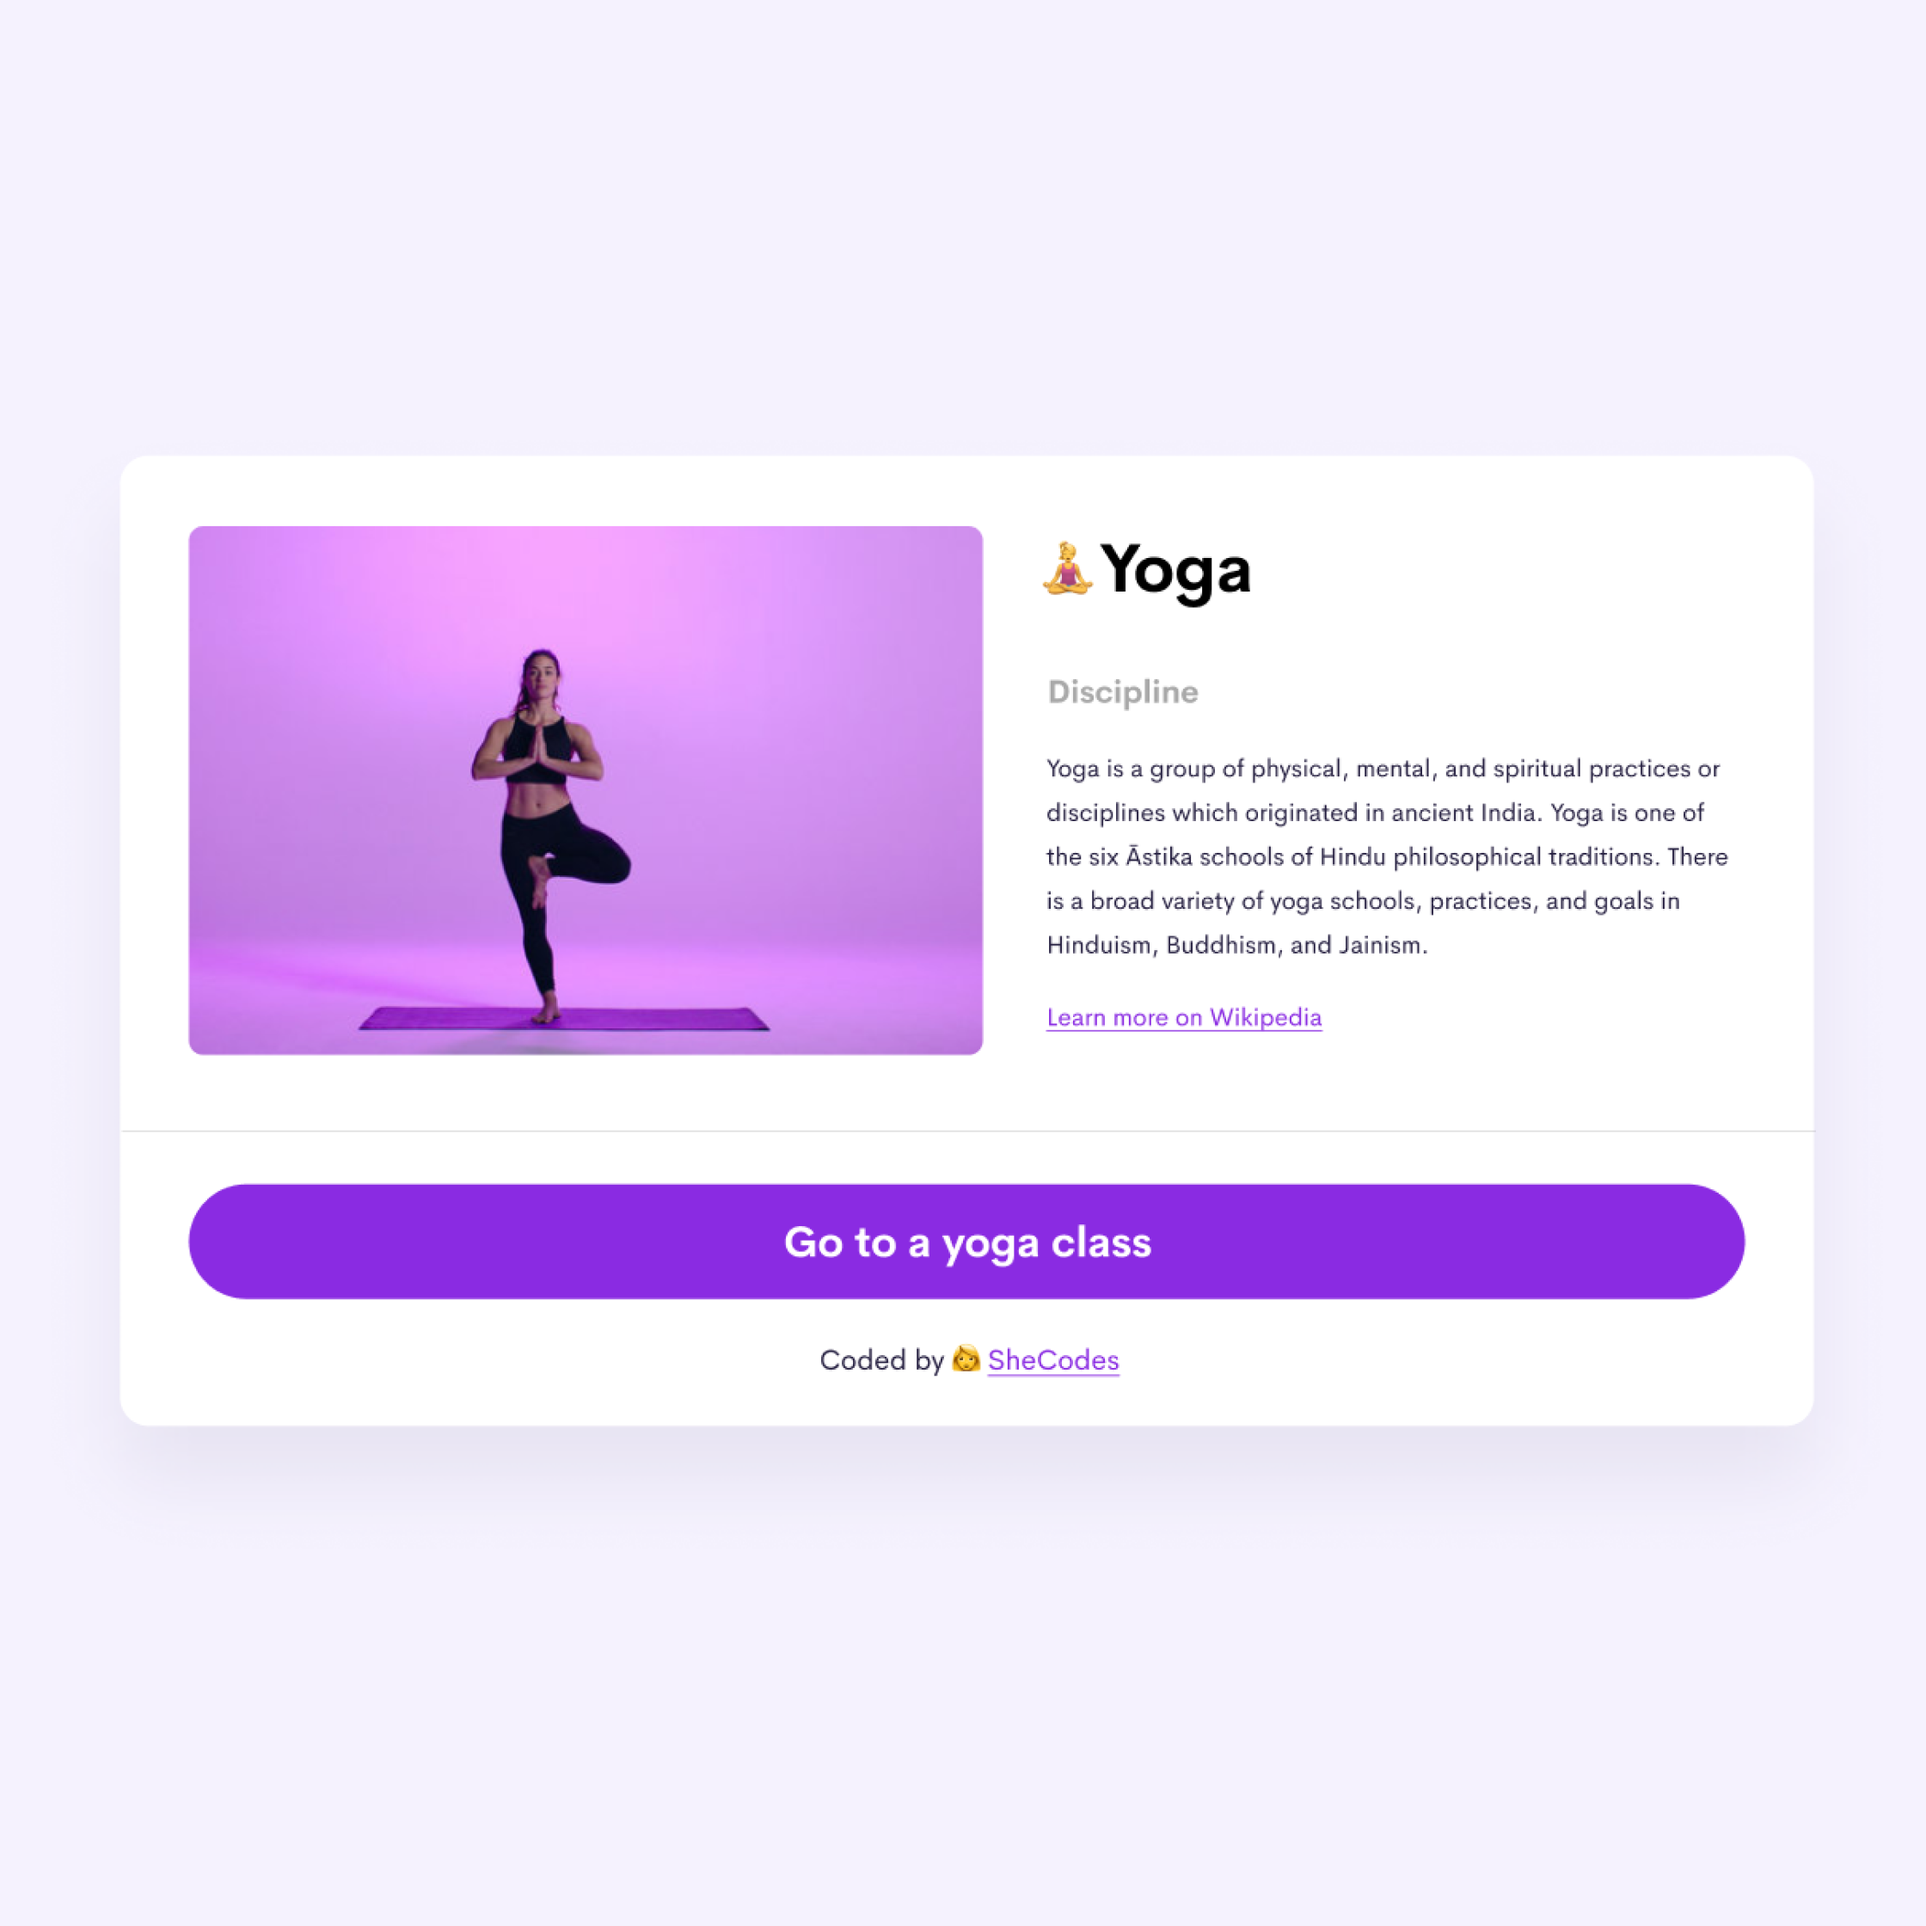
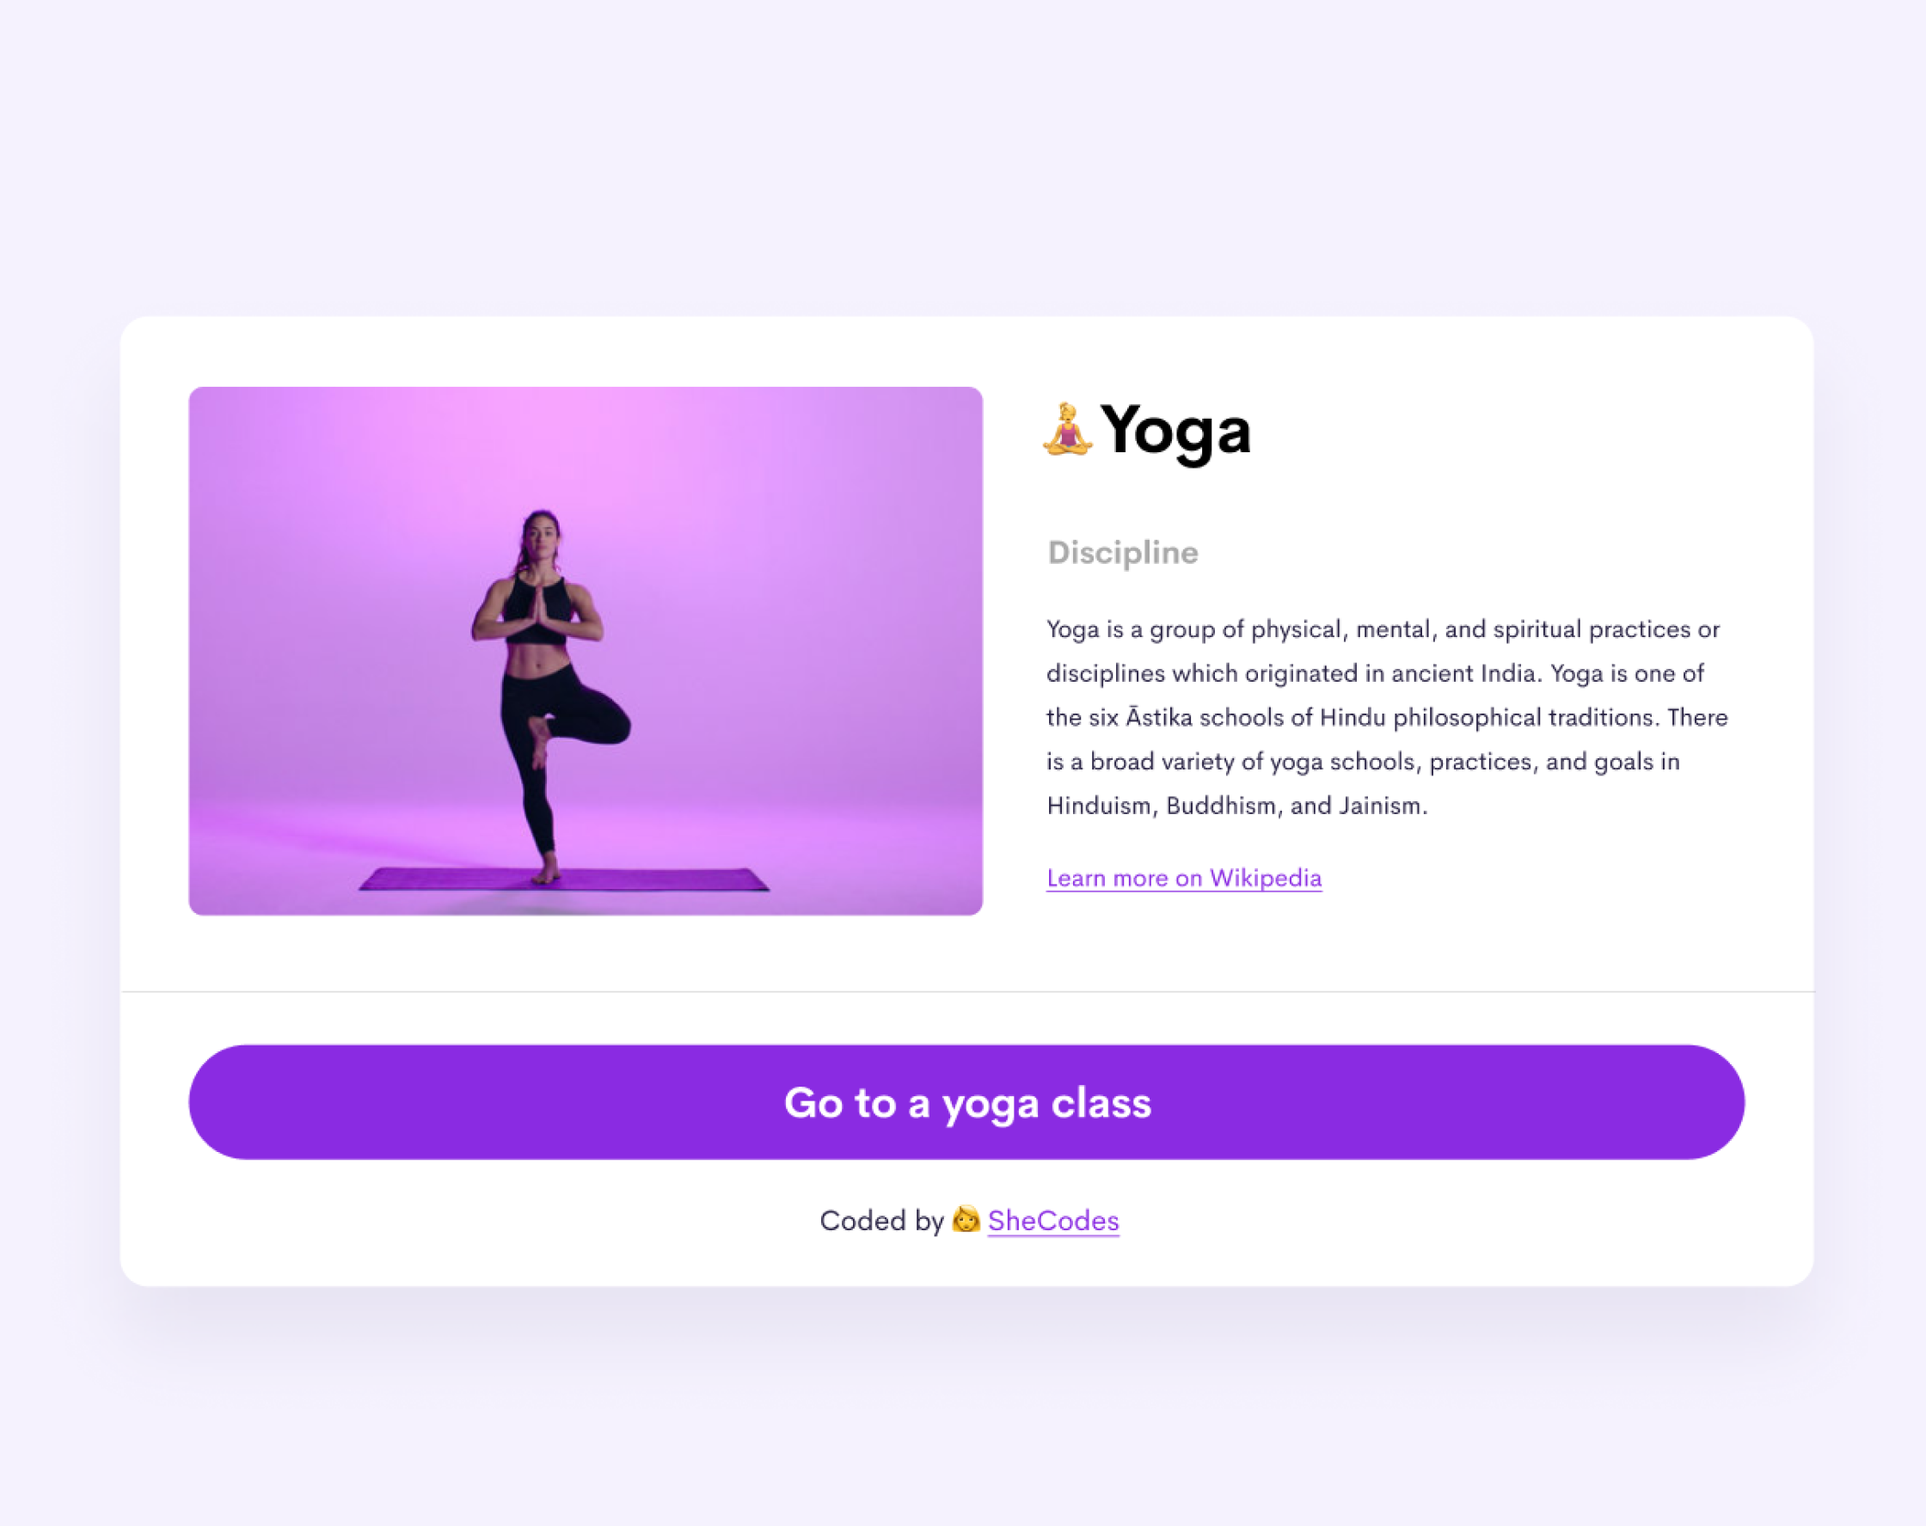
add some changes

Changed region(s): [[0.0938, 0.3408, 0.9062, 0.8056], [0.0938, 0.2479, 0.6562, 0.3099]]

diff --git a/index.html b/index.html
@@ -9,6 +9,13 @@
     <script src="https://cdn.jsdelivr.net/npm/bootstrap@5.3.1/dist/js/bootstrap.bundle.min.js"
     integrity="sha384-HwwvtgBNo3bZJJLYd8oVXjrBZt8cqVSpeBNS5n7C8IVInixGAoxmnlMuBnhbgrkm"
     crossorigin="anonymous"></script>
+    <link rel="preconnect" href="https://fonts.googleapis.com">
+    <link rel="preconnect" href="https://fonts.gstatic.com" crossorigin>
+    <link
+      href="https://fonts.googleapis.com/css2?family=Andika&family=Black+Ops+One&family=Gloria+Hallelujah&family=Indie+Flower&family=Playfair+Display:wght@500&family=Poppins&family=Yeon+Sung&display=swap"
+      rel="stylesheet">
+    <script src="https://kit.fontawesome.com/6413d1b9fc.js" crossorigin="anonymous"></script>
+    
     <meta name="description" content="this is a site where I put my Front-end projects there" />
     <title>Front-end developer - Narges Timachi</title>
     <link rel="stylesheet" href="styles/style.css" />
@@ -36,71 +43,74 @@
         </div>
       </div>
     </nav>
-    <h1 id="top">👋 Hi I am</h1>
-    <h1>Narges Timachi</h1><br>
-    <h3>🇮🇷 Front-end developer, based in Asia</h3>
-    <div class="d-flex justify-content-center">
-      <a href="about.html#contact" class="contact-link" title="Be in touch with me">Contact me</a>
-      <a href="about.html" class="about-link" title="About me">About me</a>
+    <div class="hero mb-5">
+      <h2 id="top">👋 Hi I am</h2>
+      <h1>Narges Timachi</h1><br>
+      <h3>🇮🇷 Front-end developer, based in Asia</h3>
+      <div class="d-flex justify-content-center mb-5">
+        <a href="about.html#contact" class="contact-link" title="Be in touch with me">Contact me</a>
+        <a href="about.html" class="about-link" title="About me">About me</a>
+      </div>
     </div>
-    </br></br>
-    <div class="row">
-      <div class="col-sm-6">
-        <p>
-          <div class="fs-1 fw-bold">Yoga App</div>
+    <div class="container">
+      <div class="row mb-5">
+        <div class="col-sm-6">
+          <h1 class="fs-1 fw-bold">Yoga App</h1>
+          <p class="mb-5">
+            Lorem ipsum dolor sit amet, consectetur adipisicing elit. Numquam
+            aperiam provident tempora? Cumque adipisci, non dolorem quia, odit qui
+            alias veniam excepturi rem dolor fugit dignissimos, sed voluptatum
+            blanditiis harum.
+          </p>
+          <div>
+            <a href="#" class="button">
+              Yoga App
+            </a>
+          </div>
+        </div>
+        <div class="col-sm-6">
+          <img src="images/yoga.png" class="img-fluid rounded" alt="Yoga App" />
+        </div>
+      </div>
+      </br></br>
+      <div class="row mb-4">
+        <div class="col-sm-6">
+        <img src="images/Astronomy.png" class="img-fluid rounded" alt="Yogurt App"/>
+        </div>
+        <div class="col-sm-6">
+          <h1 class="fs-1 fw-bold">Astronomy App</h1>
+          <p class="mb-5">
           Lorem ipsum dolor sit amet, consectetur adipisicing elit. Numquam
           aperiam provident tempora? Cumque adipisci, non dolorem quia, odit qui
           alias veniam excepturi rem dolor fugit dignissimos, sed voluptatum
           blanditiis harum.
-        </p>
-        <div>
-          <a href="#" class="button">
-            Yoga App
-          </a>
-        </div><br>
-      </div>
-      <div class="col-sm-6">
-        <img src="images/yoga.png" class="img-fluid rounded" alt="Yoga App" />
-      </div>
-    </div>
-    </br></br>
-    <div class="row">
-      <div class="col-sm-6">
-      <img src="images/yogurt.png" class="img-fluid rounded" alt="Yogurt App"/>
-      </div>
-      <div class="col-sm-6">
-        <p>
-        <div class="fs-1 fw-bold">Yogurt App</div>
-        Lorem ipsum dolor sit amet, consectetur adipisicing elit. Numquam
-        aperiam provident tempora? Cumque adipisci, non dolorem quia, odit qui
-        alias veniam excepturi rem dolor fugit dignissimos, sed voluptatum
-        blanditiis harum.
-        </p>
-        <div>
-          <a href="#" class="button b-yog">
-            Yogurt App
-          </a>
+          </p>
+          <div>
+            <a href="#" class="button b-yog">
+              Astronomy App
+            </a>
+          </div>
         </div>
       </div>
-    </div>
-    </br></br>
-    <div class="row">
-      <div class="col-sm-6">
-        <p>
-        <div class="fs-1 fw-bold">Weather App</div>
-        Lorem ipsum dolor sit amet, consectetur adipisicing elit. Numquam
-        aperiam provident tempora? Cumque adipisci, non dolorem quia, odit qui
-        alias veniam excepturi rem dolor fugit dignissimos, sed voluptatum
-        blanditiis harum.
-        </p>
-        <div>
-          <a href="#" class="button">
-            Weather App
-          </a>
-        </div><br>
-      </div>
-      <div class="col-sm-6">
-        <img src="images/weather.png" class="img-fluid rounded" alt="Weather App" />
+      </br></br>
+      <div class="row mb-4">
+        <div class="col-sm-6">
+          <h1 class="fs-1 fw-bold">Weather App</h1>
+          <p class="mb-5">
+          Lorem ipsum dolor sit amet, consectetur adipisicing elit. Numquam
+          aperiam provident tempora? Cumque adipisci, non dolorem quia, odit qui
+          alias veniam excepturi rem dolor fugit dignissimos, sed voluptatum
+          blanditiis harum.
+          </p>
+          <div>
+            <a href="#" class="button">
+              Weather App
+            </a>
+          </div><br>
+        </div>
+        <div class="col-sm-6">
+          <img src="images/weather.png" class="img-fluid rounded" alt="Weather App" />
+        </div>
       </div>
     </div>
   </body>

diff --git a/about.html b/about.html
@@ -35,30 +35,32 @@
       </div>
     </div>
   </nav>
-    <h1>About me</h1>
-    <h3>Front-end developer from Iran, Tehran</h3>
-    <div class="about-paragraphs">
-      <p>
-        Lorem ipsum dolor sit amet, consectetur adipisicing elit. Numquam
-        aperiam provident tempora? Cumque adipisci, non dolorem quia, odit qui
-        alias veniam excepturi rem dolor fugit dignissimos, sed voluptatum
-        blanditiis harum.
-    </div>
-    <div class="row">
-      <div class="col-sm-4">
-        <img src="images/yoga.png" class="img-fluid shadow rounded" alt="Yoga App">
+    <div class="container about">
+      <h1>About me</h1>
+      <h3>Front-end developer from Iran, Tehran</h3>
+      <div class="about-paragraphs mb-5">
+        <p>
+          Lorem ipsum dolor sit amet, consectetur adipisicing elit. Numquam
+          aperiam provident tempora? Cumque adipisci, non dolorem quia, odit qui
+          alias veniam excepturi rem dolor fugit dignissimos, sed voluptatum
+          blanditiis harum.
+        </div>
+        <div class="row">
+          <div class="col-sm-4">
+            <img src="images/yoga.png" class="img-fluid shadow rounded" alt="Yoga App">
+          </div>
+          <div class="col-sm-4">
+            <img src="images/Astronomy.png" class="img-fluid shadow rounded" alt=Astronomy App">
+          </div>
+          <div class="col-sm-4">
+            <img src="images/weather.png" class="img-fluid shadow rounded" alt="Weather App">
+          </div>
+        </div>
+      </br></br></br>
+      <div id="contact">
+        <h2 class="contact">📮 Contact me</h2>
+        <a href="mailto:Narges.timachi@gmail.com" class="email-link" title="I will answer you asap :)"> Narges.timachi@gmail.com </a>
       </div>
-      <div class="col-sm-4">
-        <img src="images/yogurt.png" class="img-fluid shadow rounded" alt="Yogurt App">
-      </div>
-      <div class="col-sm-4">
-        <img src="images/weather.png" class="img-fluid shadow rounded" alt="Weather App">
-      </div>
-    </div>
-    </br></br></br>
-    <div id="contact">
-      <h2>📮 Contact me</h2>
-      <a href="mailto:Narges.timachi@gmail.com" class="email-link" title="I will answer you asap :)"> Narges.timachi@gmail.com </a>
     </div>
   </body>
 </html>

diff --git a/styles/style.css b/styles/style.css
@@ -1,23 +1,26 @@
 :root {
+  --heading-font-family: 'Playfair Display', cursive;
+  --default-font-family: 'Poppins', cursive;
   --primary-color: #6c63ff;
   --secondary-color: #f5f2fe;
   --box-shadow: 0 5px 10px rgba(0, 0, 0, 0.1);
 }
 
 body {
-  margin: 60px auto;
-  padding: 65px;
+  font-family: var(--default-font-family);
 }
 
 h1,
 h2,
 h3 {
-  text-align: center;
-  margin: 0;
+  font-family: var(--heading-font-family);
+  font-weight: bold;
+  color: black;
 }
 
 h1 {
   font-size: 85px;
+  line-height: 1.5;
 }
 
 h2 {
@@ -30,11 +33,16 @@ h3 {
 }
 
 p {
-  padding: 20px;
-  border-radius: 4px;
-  font-size: 18px;
-  line-height: 1.5;
+  font-weight: normal;
+  line-height: 30px;
+  font-size: 16px;
+  color: rgb(69, 68, 68);
+}
+
+.hero{
+  background-color: var(--secondary-color);
   text-align: center;
+  padding: 70px 20px;
 }
 
 .d-flex {
@@ -62,11 +70,6 @@ p {
   border: 1px solid var(--primary-color);
 }
 
-. {
-  display: flex;
-  margin: 30px 0;
-}
-
 .about-paragraphs p {
   margin: 10px;
 }
@@ -92,15 +95,29 @@ p {
   text-decoration: none;
 }
 
+.contact{
+  text-align: center;
+}
+
+.about{
+  margin-top: 100px;
+  text-align: center;
+}
+
 .navbar-brand {
   margin-right: 20px;
   margin-left: 50px;
+  font-family: var(--heading-font-family);
   font-weight: bold;
 }
 
 @media (max-width: 580px) {
   h1 {
     font-size: 40px;
+  }
+
+  h1,h2,p{
+    text-align: center;
   }
 
   .button {
